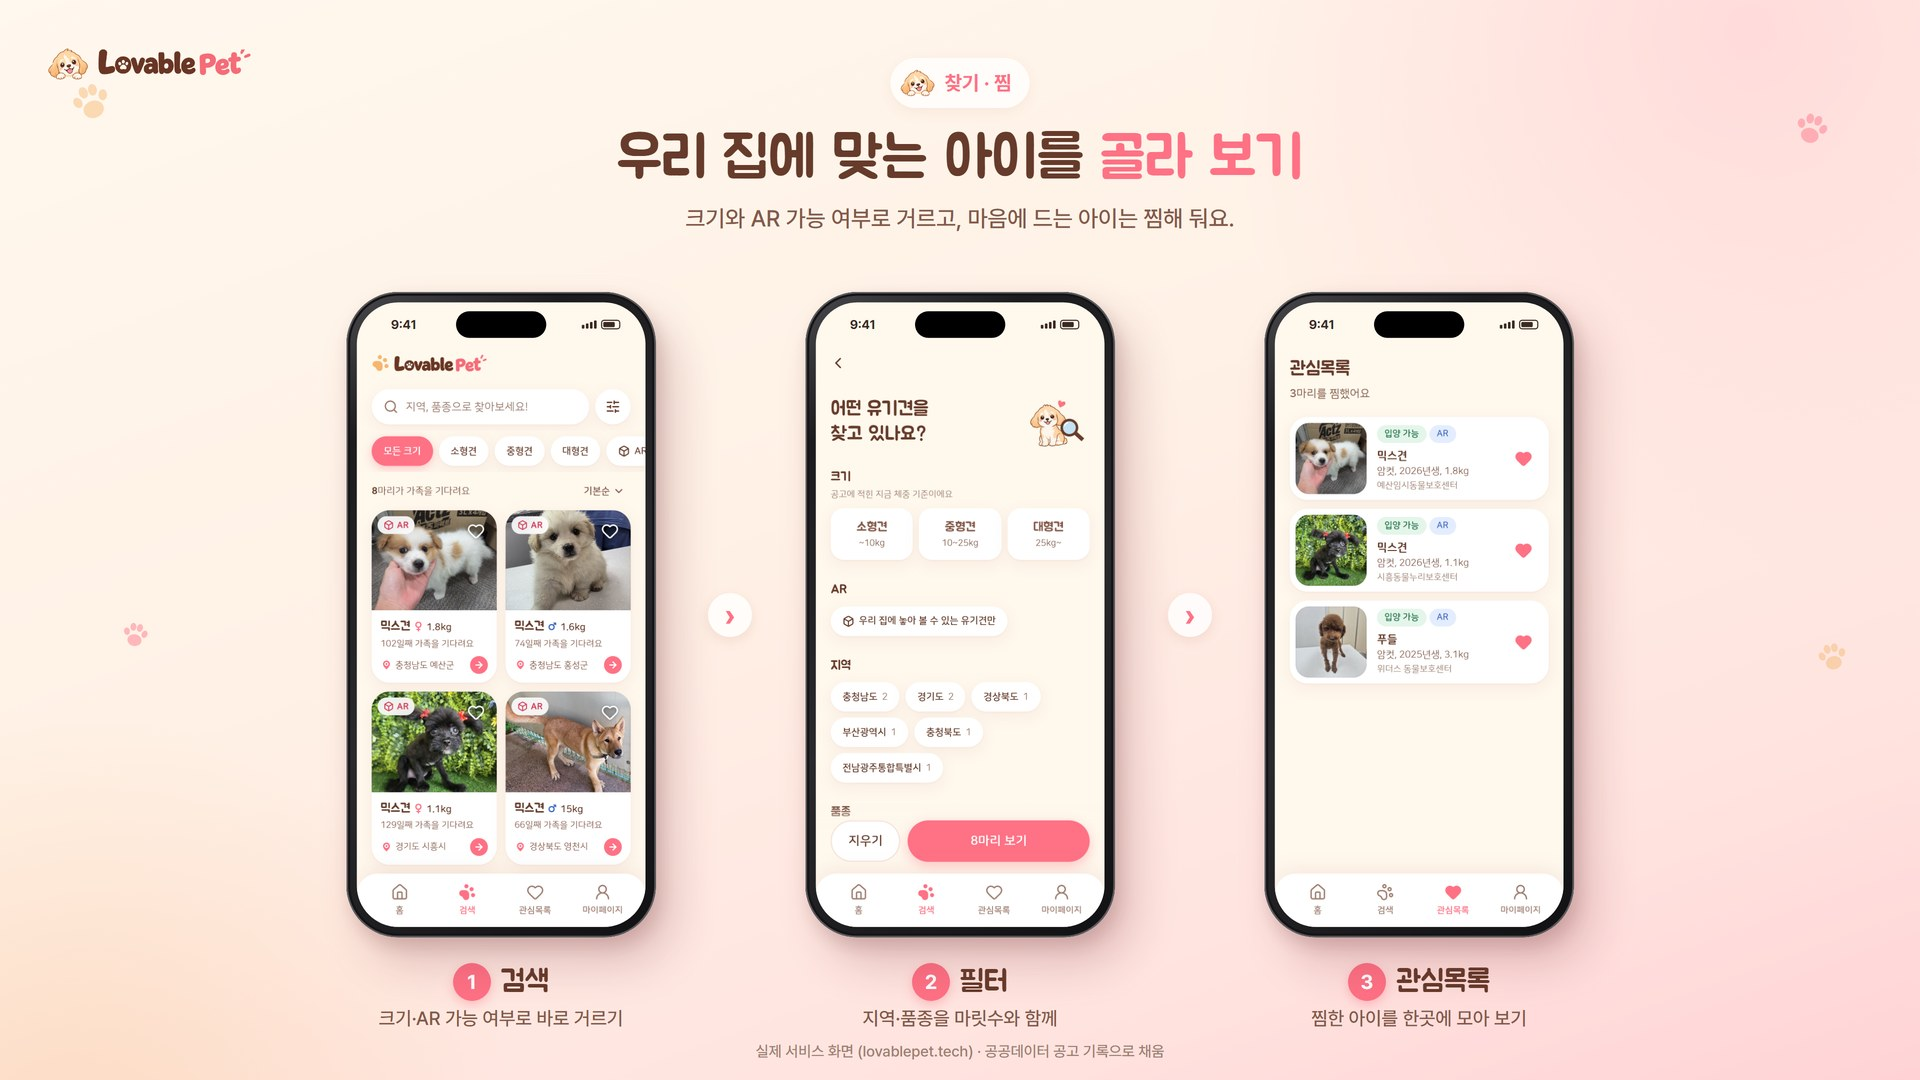
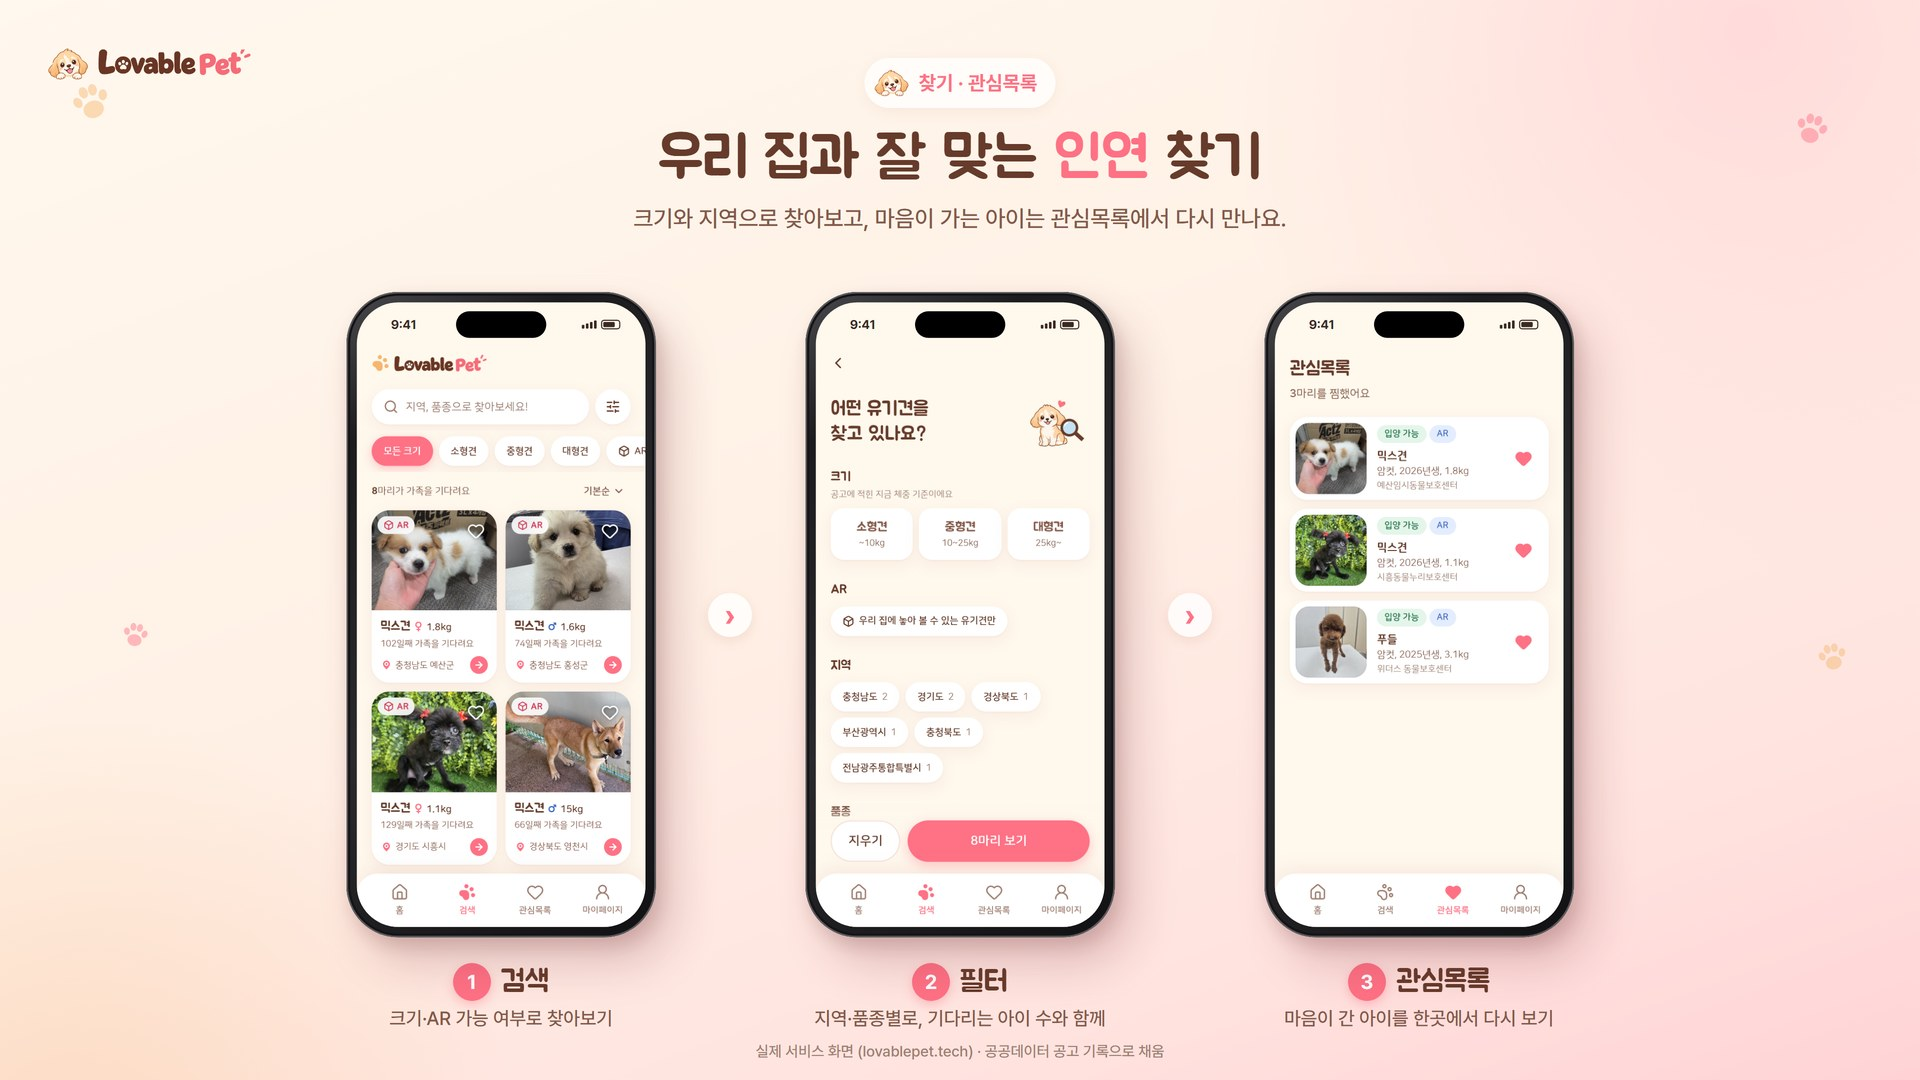
docs(profile): reword the find board as finding a match, not filtering dogs

diff --git a/profile/README.md b/profile/README.md
@@ -26,7 +26,7 @@
 
 <img src="https://raw.githubusercontent.com/Lovable-Pet/.github/main/profile/assets/screen_flow.jpg" width="100%" alt="서비스 흐름: 둘러보기, 상세 정보, 실제 크기, 우리 집에 띄우기">
 
-<img src="https://raw.githubusercontent.com/Lovable-Pet/.github/main/profile/assets/screen_find.jpg" width="100%" alt="찾기와 찜: 검색, 필터, 관심목록">
+<img src="https://raw.githubusercontent.com/Lovable-Pet/.github/main/profile/assets/screen_find.jpg" width="100%" alt="찾기와 관심목록: 검색, 필터, 관심목록">
 
 <img src="https://raw.githubusercontent.com/Lovable-Pet/.github/main/profile/assets/screen_ar.jpg" width="100%" alt="AR과 3D: AR 안내, 우리 집 바닥에, 화면 안 3D">
 
